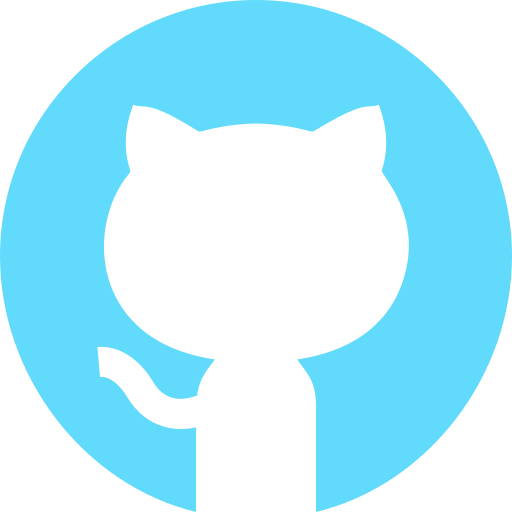
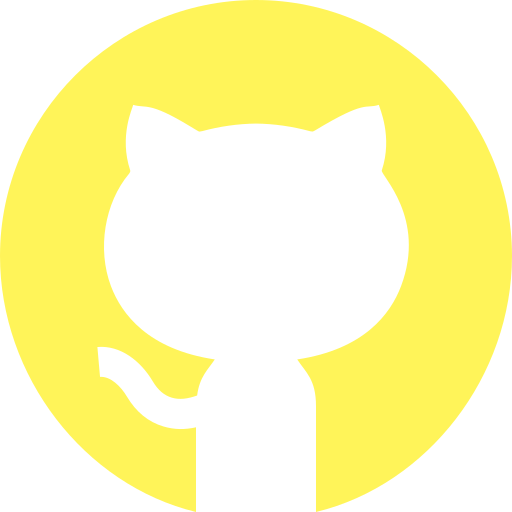
2022.01.10 change color, add timeline

diff --git a/src/timeline.js b/src/timeline.js
@@ -88,7 +88,7 @@ function Timeline() {
                         <li>건국대학교 글로컬캠퍼스 컴퓨터공학과를 16학번으로 졸업하였습니다. </li>
                         <li>2016년 제약공학과에 입학하였습니다. 진통 해열제의 성분인 아세트아미노펜으로 정제를 제작하고 투약 후,
                             시간대별로 약이 용매에 녹아 나오는 양을 측정하는 용출 시험 중이었습니다.</li>
-                        <li>보고서를 쓰던 중 시험을 같이하던 선배가 시간과 용출량의 데이터를 x 좌표와 y 좌푯값으로 놓고 R 언어를 통해 그래프를 출력하여 결과를 쉽고 빠
+                        <li>보고서를 쓰던 중 시험을 같이하던 선배가 시간과 용출량의 데이터를 R 언어를 통해 결과를 쉽고 빠
                             르게 도출해 내는 것을 보았습니다.</li>
                         <li>이를 계기로 프로그래밍에 호기심이 생겼고 개발자가 되기 위하여 18년도에 컴퓨터공학과로 편입하였습니다. </li>
                     </ul>
@@ -101,7 +101,7 @@ function Timeline() {
                     <h2>청년 TLO 육성사업</h2>
                     <ul>
                         <li id='year'>2020년 3월 ~ 2020년 8월</li>
-                        <li>건국대학교 글로컬캠퍼스를 졸업 후 담당 교수님 제안으로 청년 TLO육성사업에 참여하였습니다. TLO 육성사업을 통해 건국대학교 글로컬 산학협력단 소속 계약직 연구원을 하였습니다.</li>
+                        <li>건국대학교 글로컬캠퍼스를 졸업 후 담당 교수님 제안으로 청년 TLO 육성사업에 참여하였습니다. TLO 육성사업을 통해 건국대학교 글로컬 산학협력단 소속 계약직 연구원을 하였습니다.</li>
                         <li>연구원 신분으로 교수님의 곁에서 6개월간 교수님의 업무를 보조하였습니다.</li>
                     </ul>
                 </div>
@@ -112,7 +112,7 @@ function Timeline() {
                     <h2>자격증</h2>
                     <ul>
                         <li id='year'>2020년 9월 ~ 2021년 3월</li>
-                        <li>TLO 육성사업이 끝난 후 전공을 살려 취업을 하기 위한 자격증 준비를 하였습니다. 4년제 대학교를 졸업하면 딸 수 있는 정보처리기사를 준비하여 필기부문에서 합격하였습니다. 그 외에도 컴퓨터활용능력1급 필기와 ITQ OA Master 등 자격증을 따며 취업준비에 힘썼습니다.</li>
+                        <li>TLO 육성사업이 끝난 후 전공을 살려 취업을 하기 위한 자격증 준비를 하였습니다. 4년제 대학교를 졸업하면 딸 수 있는 정보처리기사를 준비하여 필기 부문에서 합격하였습니다. 그 외에도 컴퓨터 활용능력 1급 필기와 ITQ OA Master 등 자격증을 따며 취업 준비에 힘썼습니다.</li>
                         
                     </ul>
                 </div>
@@ -123,7 +123,7 @@ function Timeline() {
                     <h2>대전대학교 HRD 사업단</h2>
                     <ul>
                         <li id='year'>2021년 4월 ~ 2021년 7월</li>
-                        <li>취업에 앞서 스스로 개발자로서의 이해와 능력이 부족하다고 판단하였습니다. 대전대학교에서 국비지원 사업으로 '빅데이터 분석 플랫폼 구축 및 개발자 양성과정'을 진행한다는 공고를 본 후 면접을 보고 합격하였습니다. 약 4개월 간 java나 jsp, html등 여러가지 언어와 툴을 사용하여 프로젝트를 진행하였습니다. 프로젝트를 진행하면서 프론트엔드 쪽에 관심이 생겼습니다. </li>
+                        <li>취업에 앞서 스스로 개발자로서의 이해와 능력이 부족하다고 판단하였습니다. 대전대학교에서 국비지원 사업으로 '빅데이터 분석 플랫폼 구축 및 개발자 양성과정'을 진행한다는 공고를 본 후 면접을 보고 합격하였습니다. 약 4개월간 java나 jsp, html 등 여러 가지 언어와 툴을 사용하여 프로젝트를 진행하였습니다. 프로젝트를 진행하면서 프론트엔드 쪽에 관심이 생겼습니다. </li>
                     </ul>
                 </div>
             )
@@ -133,7 +133,7 @@ function Timeline() {
                     <h2>주식회사 팀마파</h2>
                     <ul>
                         <li id='year'>2021년 7월 ~ 2021년 11월</li>
-                        <li></li>
+                        <li>개발자로서의 첫 회사로 React와, React-native 등 프론트엔드 개발자의 역량을 다졌습니다. 실무를 통한 다양한 프로젝트를 수행하였습니다. React를 사용하여 웹페이지를 만들고 React-native를 사용하여 애플리케이션도 제작하였습니다. 프로젝트에 필요한 DB 테이블 구조를 짜기도 하고 axios를 사용해 서버와 통신하거나 모듈을 사용하는 등 기술을 익혔습니다.</li>
                     </ul>
                 </div>
             )
@@ -157,7 +157,7 @@ function Timeline() {
                                 </div>
                             </div>
                             <div className='progressbar1'>
-                                <div style={{ position: 'relative', height: '5px', width: bar_value() * value, transition: '1s', backgroundColor: '#61DAFB', borderRadius: '50px' }} className='progressbar_1' color="warning" className="mb-3" >
+                                <div style={{ position: 'relative', height: '5px', width: bar_value() * value, transition: '1s', backgroundColor: '#fff459', borderRadius: '50px' }} className='progressbar_1' color="warning" className="mb-3" >
                                     <div style={{ position: 'absolute', height: '5px', width: '0px', backgroundColor: '#22262A' }} className='progressbar_1' color="warning" value={value} className="mb-3" />
                                 </div>
                             </div>

diff --git a/src/works.js b/src/works.js
@@ -30,7 +30,8 @@ function Works() {
             img1: html5,
             img2: css3,
             img3: reactweb,
-            period: '2021.12'
+            period: '2021.12',
+            link: 'https://drive.google.com/file/d/1dKQXzlYOlUdtxlDGvsHZE8deu1x4VxYZ/view?usp=sharing'
         },
         {
             title: 'Conady Web',
@@ -40,7 +41,8 @@ function Works() {
             img1: html5,
             img2: css3,
             img3: reactweb,
-            period: '2021.07 ~ 2021.11'
+            period: '2021.07 ~ 2021.11',
+            link:'https://drive.google.com/file/d/1_p8F3vl6sBKIUbrB4S9CIC6mhhw1bGUQ/view?usp=sharing'
         },
         {
             title: 'Conady App',
@@ -48,7 +50,8 @@ function Works() {
             width: 350,
             use: 'React-native',
             img1: reactweb,
-            period: '2021.07 ~ 2021.11'
+            period: '2021.07 ~ 2021.11',
+            link:'https://drive.google.com/file/d/1MkrFn6GDLT9_WRYkCaZmv0u0nNorMKMD/view?usp=sharing'
         },
         {
             title: 'Sollamas',
@@ -58,7 +61,8 @@ function Works() {
             img1: html5,
             img2: css3,
             img3: reactweb,
-            period: '2021.10'
+            period: '2021.10',
+            link:'https://drive.google.com/file/d/19BISNOkMYJQW_BTgd_fPe5IxHTMDTf5c/view?usp=sharing'
         },
         {
             title: 'Tooni',
@@ -68,7 +72,8 @@ function Works() {
             img1: html5,
             img2: css3,
             img3: reactweb,
-            period: '2021.09 ~ 2021.10'
+            period: '2021.09 ~ 2021.10',
+            link:'https://drive.google.com/file/d/1X8oik637P52SIdf4G8ZUgmzj4TaBCn1k/view?usp=sharing'
         },
         {
             title: 'Balook',
@@ -78,7 +83,8 @@ function Works() {
             img1: html5,
             img2: css3,
             img3: javascript,
-            period: '2021.06 ~ 2021.07'
+            period: '2021.06 ~ 2021.07',
+            link:'https://drive.google.com/file/d/1LhRUYf0GXeTY8Ea4pM09EMLyHfM4BAzi/view?usp=sharing'
         }
     ]);
 
@@ -86,8 +92,8 @@ function Works() {
     const renderSlides = () =>
         workList.map((item, index) => (
             <div key={index} className='hi'>
-                <div className='content front'>
-                    <div className='top'>
+                <div className='content front' onClick={() => { window.location.href = `${item.link}` }}>
+                    <div className='top' >
                         {item.title === 'Conady App' ?
                             <img style={{ marginLeft: '50px' }} src={item.url} />
                             :
@@ -96,7 +102,7 @@ function Works() {
                         <span>{item.title}</span>
                     </div>
                 </div>
-                <div className='content back'>
+                <div className='content back' onClick={() => { window.location.href = `${item.link}` }}>
                     <div className='top1'>
                         <h3>{item.title}</h3>
                         <ul>
@@ -109,7 +115,7 @@ function Works() {
                                     <li>
                                         <img src={item.img1} />
                                     </li>
-                                    <span style={{ fontFamily: 'Urbanist', fontWeight: 'bold', fontSize: '15px', color: '#61DAFB' }}>React-native</span>
+                                    <span style={{ fontFamily: 'Urbanist', fontWeight: 'bold', fontSize: '15px', color: '#fff459' }}>React-native</span>
                                 </>
                                 :
                                 <li>

diff --git a/src/home.scoped.css b/src/home.scoped.css
@@ -8,7 +8,7 @@
 .home .main_container {
     width: 100%;
     height: 100vh;
-    background-color: #22262A;
+    background-color: #171a1d
 }
 
 .home .main_container .sub_container {
@@ -49,7 +49,7 @@
   font-weight: bold;
   border-radius: 50px;
   background-color: transparent;
-  border: 4px solid #61DAFB;
+  border: 4px solid #fff459;
 	overflow: hidden;
 	position: relative;
   display: inline-block;
@@ -122,15 +122,16 @@
   .home .main_container .sub_container .ment h2 {
     font-size: 40px;
     width: 300px;
-    height: 240px;
+    height: 300px;
   }
 
 }
 
 @media screen and (max-width: 1024px) {
 
+
   .home .main_container .sub_container .ment {
-    margin-left: 200px;
+    margin-left: 150px;
     display: flex;
     flex-direction: column;
     justify-content: center;
@@ -140,7 +141,7 @@
   .home .main_container .sub_container .ment h2 {
     font-size: 35px;
     width: 250px;
-    height: 220px;
+    height: 250px;
   }
 
   .home .main_container .sub_container .ment button {
@@ -161,14 +162,21 @@
 
 @media screen and (max-width: 768px) {
 
+  .home .main_container .sub_container {
+    display: flex;
+    flex-direction: column;
+    justify-content: center;
+    align-items: center;
+  }
   .home .main_container .sub_container .ment {
     margin-left: 30px;
+    margin-bottom: 20px;
   }
 
   .home .main_container .sub_container .ment h2 {
     font-size: 35px;
     width: 250px;
-    height: 220px;
+    height: 280px;
   }
 
   .home .main_container .sub_container .ment button {
@@ -178,6 +186,10 @@
   .home .main_container .sub_container {
     padding-right: 30px;
   }
+  .home .main_container .sub_container .react_logo img {
+    width: 240px;
+    height: 320px;
+  }
 
   /* .home .main_container .sub_container .react_logo img {
     width: 300px;
@@ -186,15 +198,14 @@
 }
 @media screen and (max-width: 480px) {
 
-  .home .main_container .sub_container {
-    flex-direction: column;
-    justify-content: center;
-    align-items: center;
-  }
   
   .home .main_container .sub_container .ment {
     height: 350px;
     margin-left: 0px;
+  }
+  .home .main_container .sub_container .react_logo img {
+    width: 180px;
+    height: 240px;
   }
 
 }

diff --git a/src/timeline.scoped.css b/src/timeline.scoped.css
@@ -100,7 +100,7 @@
   color: white;
   border-radius: 50px;
   background-color: transparent;
-  /* border: 3px solid #61DAFB; */
+  /* border: 3px solid #fff459; */
   border-style: none;
   box-shadow: 2px 2px 10px #000000;
 	overflow: hidden;
@@ -143,6 +143,7 @@
 
 .timeline .main_container .sub_container .TLBox span div ul #year {
   font-size: 18px;
+  margin-bottom: 10px;
 }
 
 .timeline .main_container .sub_container .TLBox span div ul li {
@@ -270,7 +271,7 @@
   
   .timeline .main_container .sub_container .TLBox {
     width: 250px;
-    height: 400px;
+    height: 500px;
   } 
   .timeline .main_container .sub_container .history .progressbar {
     width: 200px;

diff --git a/src/App.js b/src/App.js
@@ -173,7 +173,7 @@ function App() {
         <div onClick={() => { fnc(num) }} style={{
           cursor: 'pointer',
           fontWeight: "bold",
-          color: scrollIndex === num ? "#61DAFB" : "white",
+          color: scrollIndex === num ? "#fff459" : "white",
           fontFamily: "Urbanist",
           fontSize: '17px',
           backgroundColor: 'transparent'

diff --git a/public/index.html b/public/index.html
@@ -24,7 +24,7 @@
       work correctly both with client-side routing and a non-root public URL.
       Learn how to configure a non-root public URL by running `npm run build`.
     -->
-    <title>React App</title>
+    <title>하승희 포트폴리오</title>
   </head>
   <body>
     <noscript>You need to enable JavaScript to run this app.</noscript>

diff --git a/src/slick.css b/src/slick.css
@@ -10,6 +10,7 @@
   width: 100%;
   height: 100vh;
   background-color: #22262A;
+  overflow: hidden;
 }
 
 .Works .main_container .sub_container {
@@ -59,7 +60,8 @@
   height: 400px;
   margin: 0 auto;
   border-radius: 20px;
-  overflow:hidden
+  overflow:hidden;
+  cursor: pointer;
 }
 
 .Works .main_container .sub_container .hi .content .top {

diff --git a/src/about.scoped.css b/src/about.scoped.css
@@ -8,7 +8,7 @@
 .about .main_container {
     width: 100%;
     height: 100vh;
-    background-color: #22262A;
+    background-color: #171a1d;
 }
 
 .about .main_container .sub_container {
@@ -73,7 +73,7 @@
 }
 
 .about .main_container .sub_container .ment #blue {
-  color: #61DAFB;
+  color: #fff459;
   font-weight: bold;
 }
 

diff --git a/src/App.scoped.css b/src/App.scoped.css
@@ -4,10 +4,8 @@
   text-decoration: none;
   list-style-type: none;
 }
-
 body {
   margin: 0;
-  overflow-y: hidden;
 }
 
 .outer {
@@ -62,6 +60,7 @@ body {
 .right_bar {
   display: none;
 }
+
 
 @media screen and (max-width: 768px) {
   .outer .left_bar {
